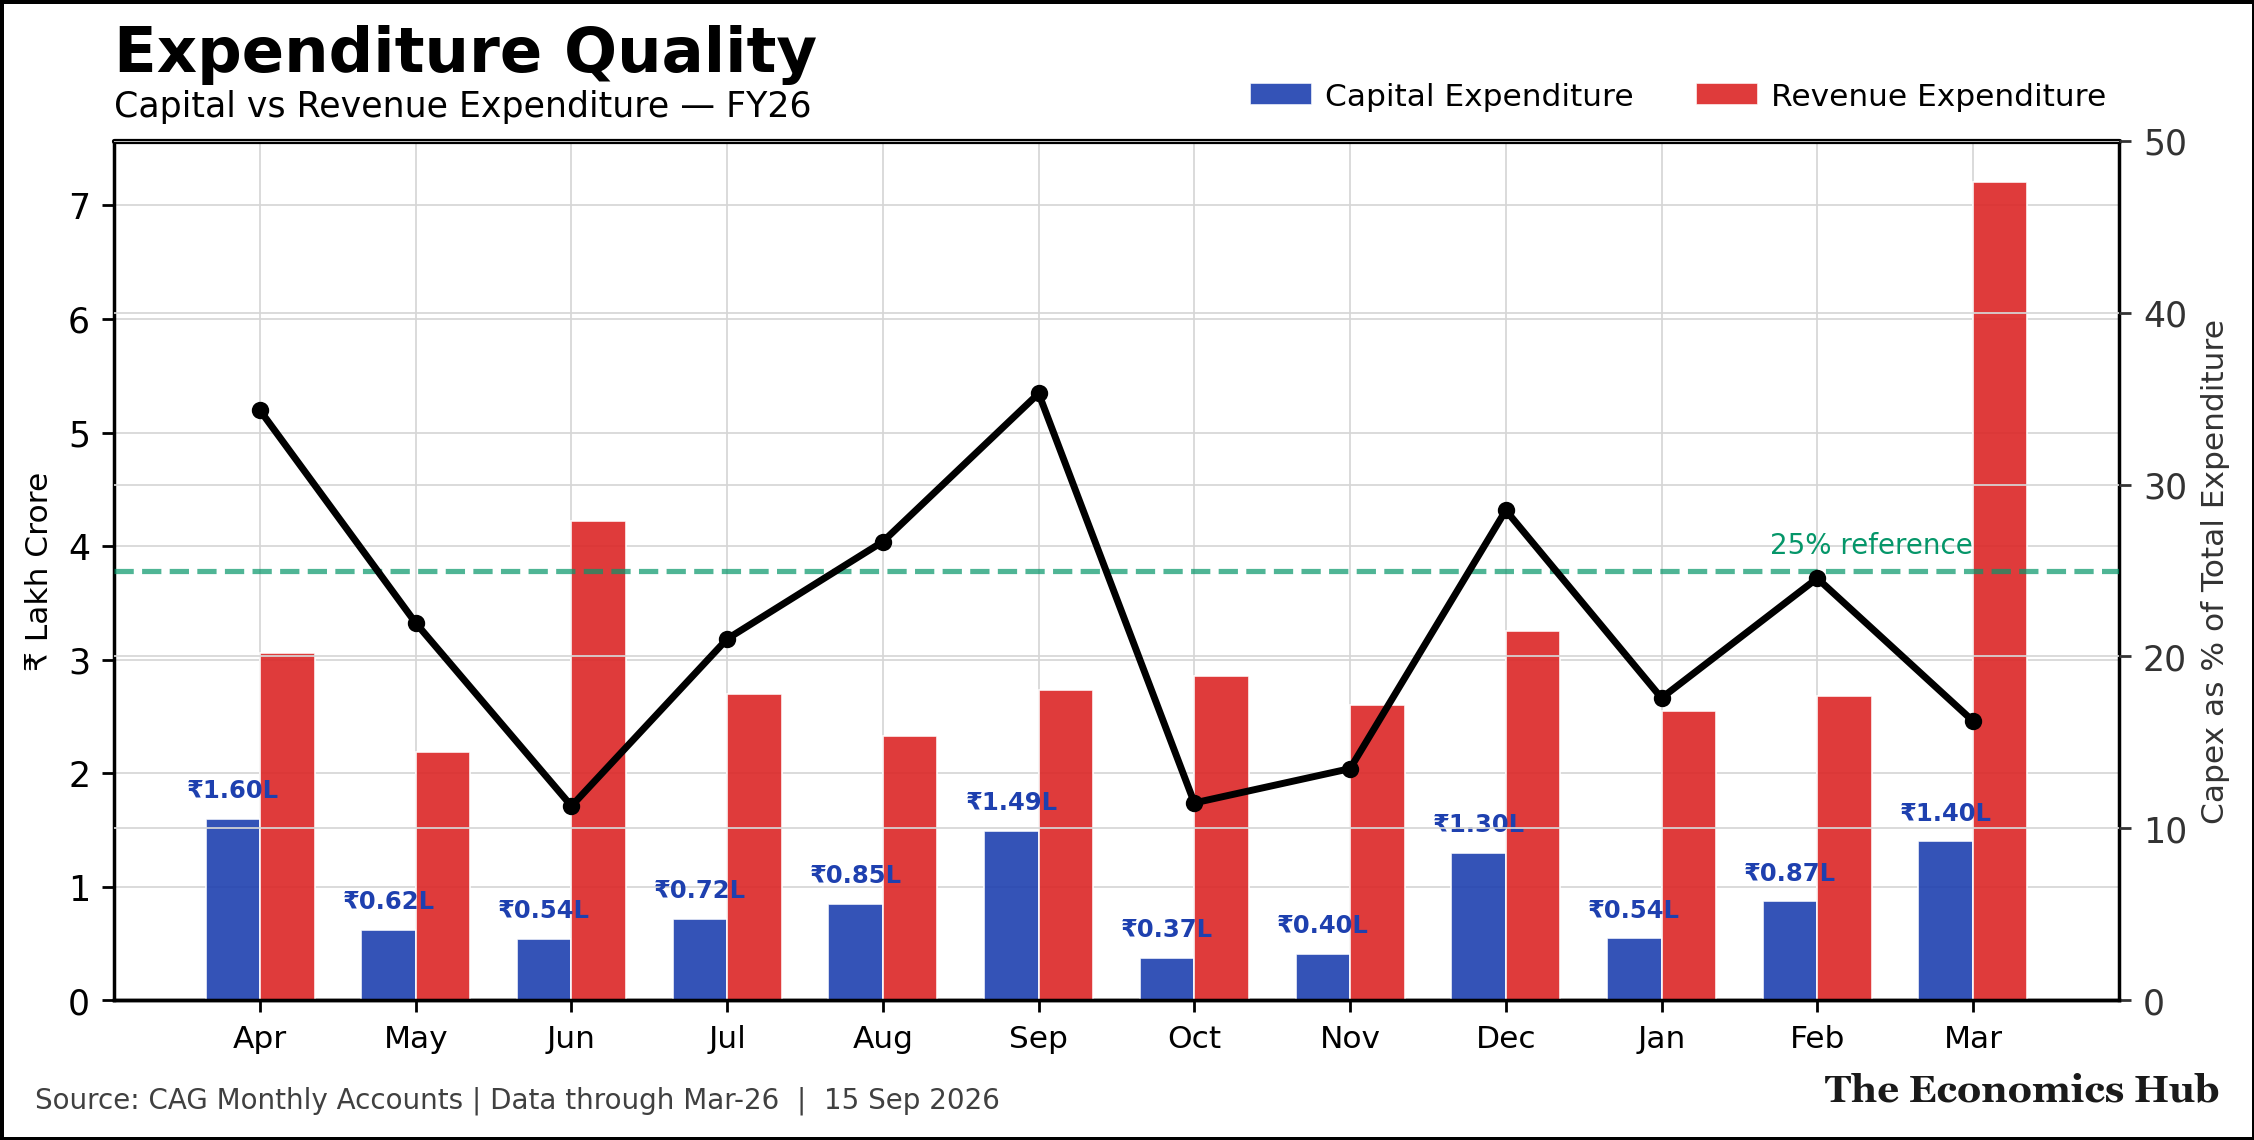
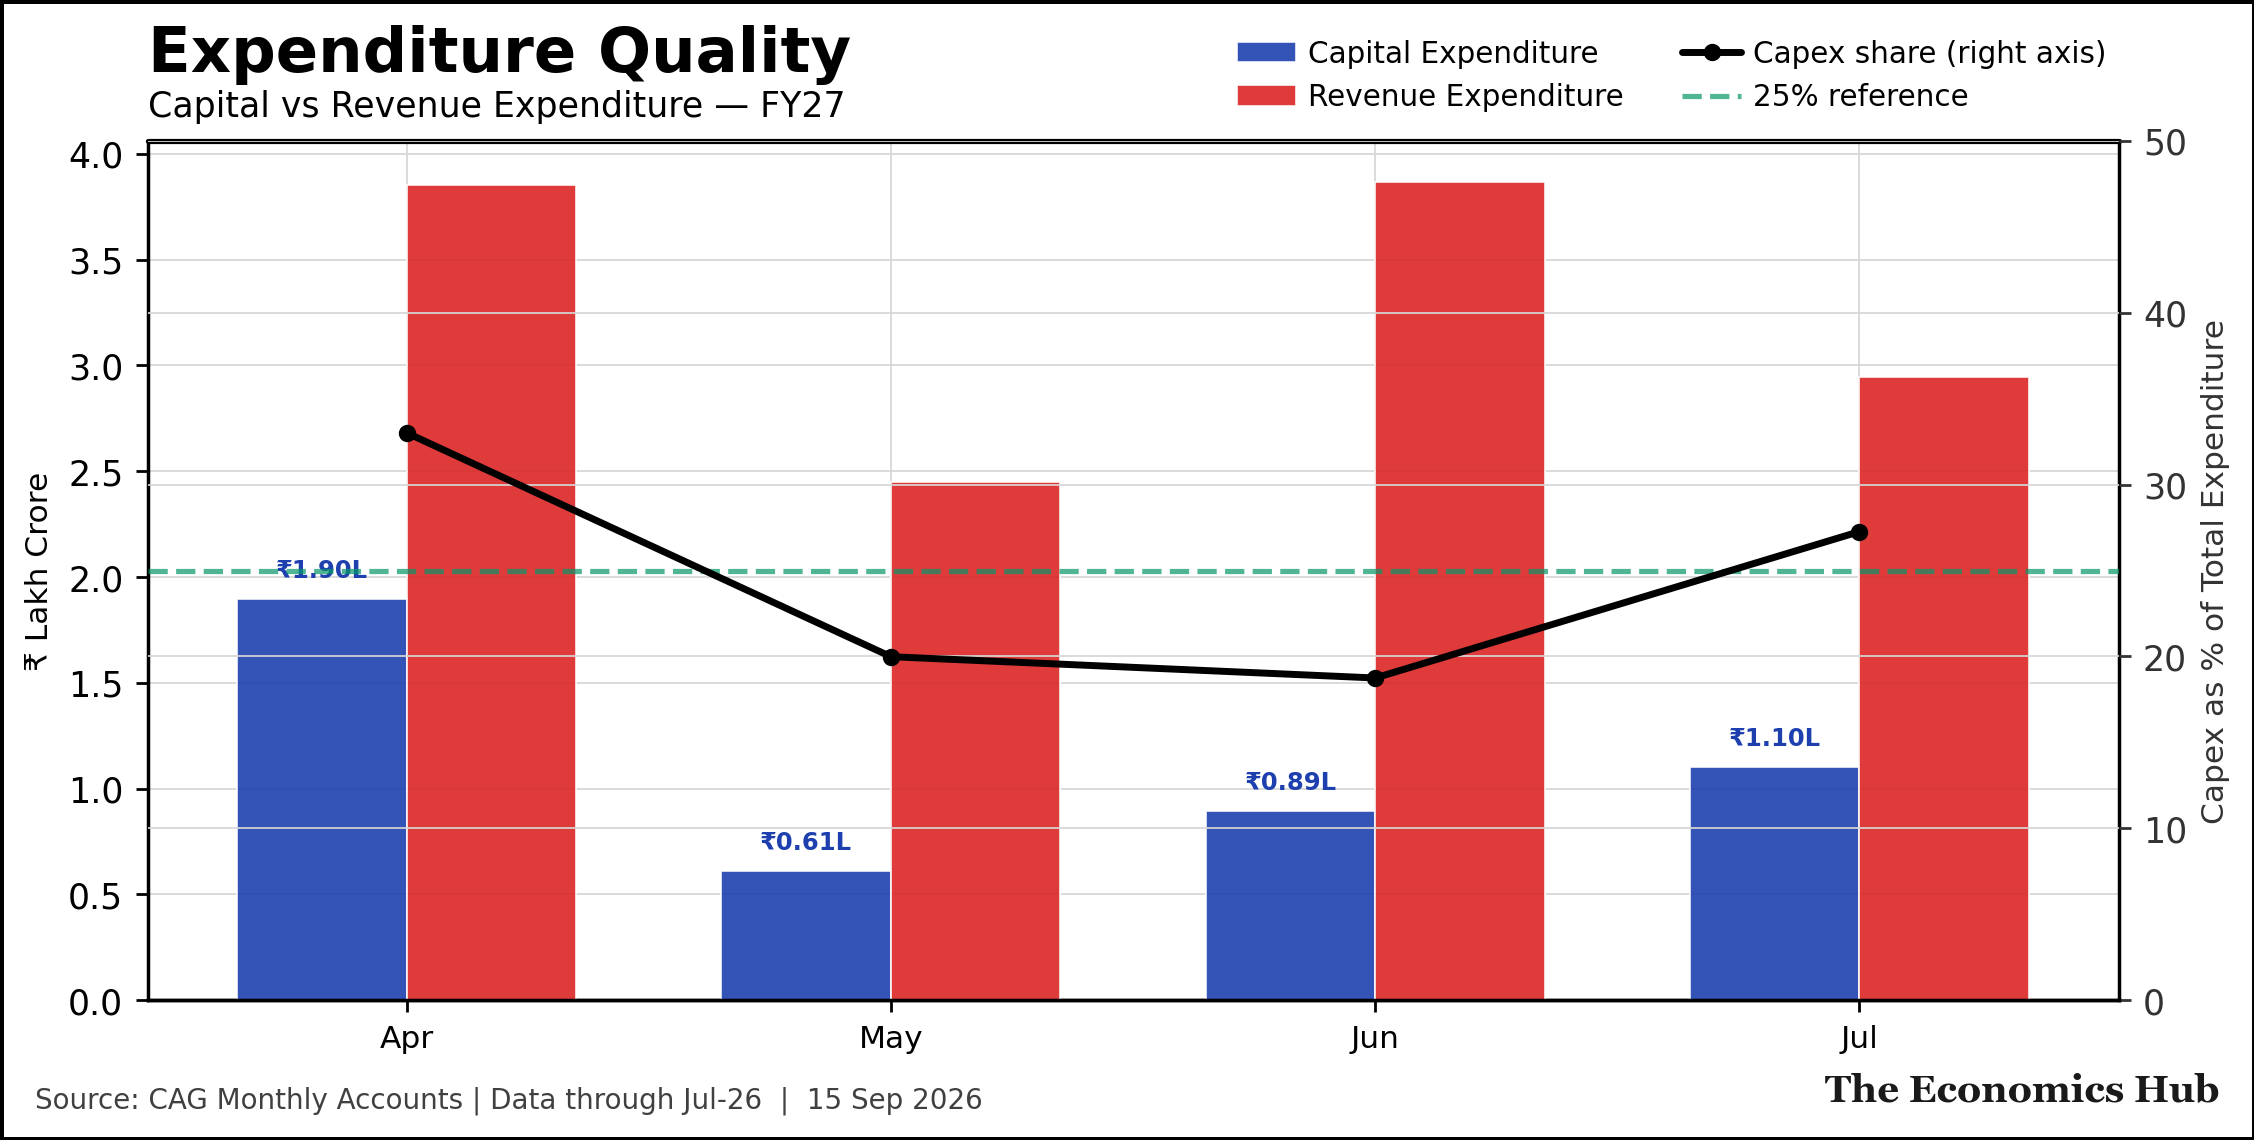
data(india): CAG monthly accounts Apr-Jul 2026 and Budget 2026-27 estimates
User-entered year-to-date figures from the CGA web page, checked against CGA
press reports (July fiscal deficit Rs 4,55,144 crore; total spending Rs 17.62
lakh crore; capex 37% of BE; interest to June Rs 3.46 lakh crore). BE 2026-27
from Budget at a Glance (via PRS); nominal GDP Rs 393 lakh crore (rounded).
Fiscal charts now cover FY27 to July. Expenditure quality legend carries the
25% reference line instead of a label that collided with the share line.

diff --git a/generate_india.py b/generate_india.py
@@ -1652,23 +1652,25 @@ def chart_expenditure_quality(cag_data, df_monthly, output_dir):
     
     ax2 = ax.twinx()
     ax2.plot(x[valid_idx], ratio[valid_idx], color='#000000', linewidth=2, 
-            marker='o', markersize=4, label='Capex Share %', zorder=10)
+            marker='o', markersize=4, label='Capex share (right axis)', zorder=10)
     ax2.set_ylabel('Capex as % of Total Expenditure', fontsize=9, color='#333333')
     ax2.set_ylim(0, 50)
     ax2.tick_params(axis='y', colors='#333333')
     
-    # Target line
-    ax2.axhline(y=25, color='#059669', linewidth=1.5, linestyle='--', alpha=0.7, zorder=6)
-    ax2.text(len(months)-1, 26, '25% reference', fontsize=8, color='#059669', ha='right')
+    # Reference level (not an official target), named in the legend rather than
+    # on the plot, where it collided with the share line
+    ax2.axhline(y=25, color='#059669', linewidth=1.5, linestyle='--', alpha=0.7, zorder=6,
+                label='25% reference')
     
     ax.set_xticks(x)
     ax.set_xticklabels(months, fontsize=9)
     ax.set_ylabel('₹ Lakh Crore', fontsize=EconStyle.FONT_SIZE_AXIS)
     
     # Legend at top-right, inline with subtitle
-    handles, labels = ax.get_legend_handles_labels()
-    ax.legend(handles=handles, loc='lower right', bbox_to_anchor=(1.0, 1.02),
-              ncol=2, frameon=False, fontsize=9, handletextpad=0.4, borderaxespad=0)
+    handles, _ = ax.get_legend_handles_labels()
+    handles2, _ = ax2.get_legend_handles_labels()
+    ax.legend(handles=handles + handles2, loc='lower right', bbox_to_anchor=(1.0, 1.02),
+              ncol=2, frameon=False, fontsize=8.5, handletextpad=0.4, borderaxespad=0)
     
     EconStyle.set_title(ax, "Expenditure Quality",
                         f"Capital vs Revenue Expenditure — FY{cag_data['fy'][-2:]}")
